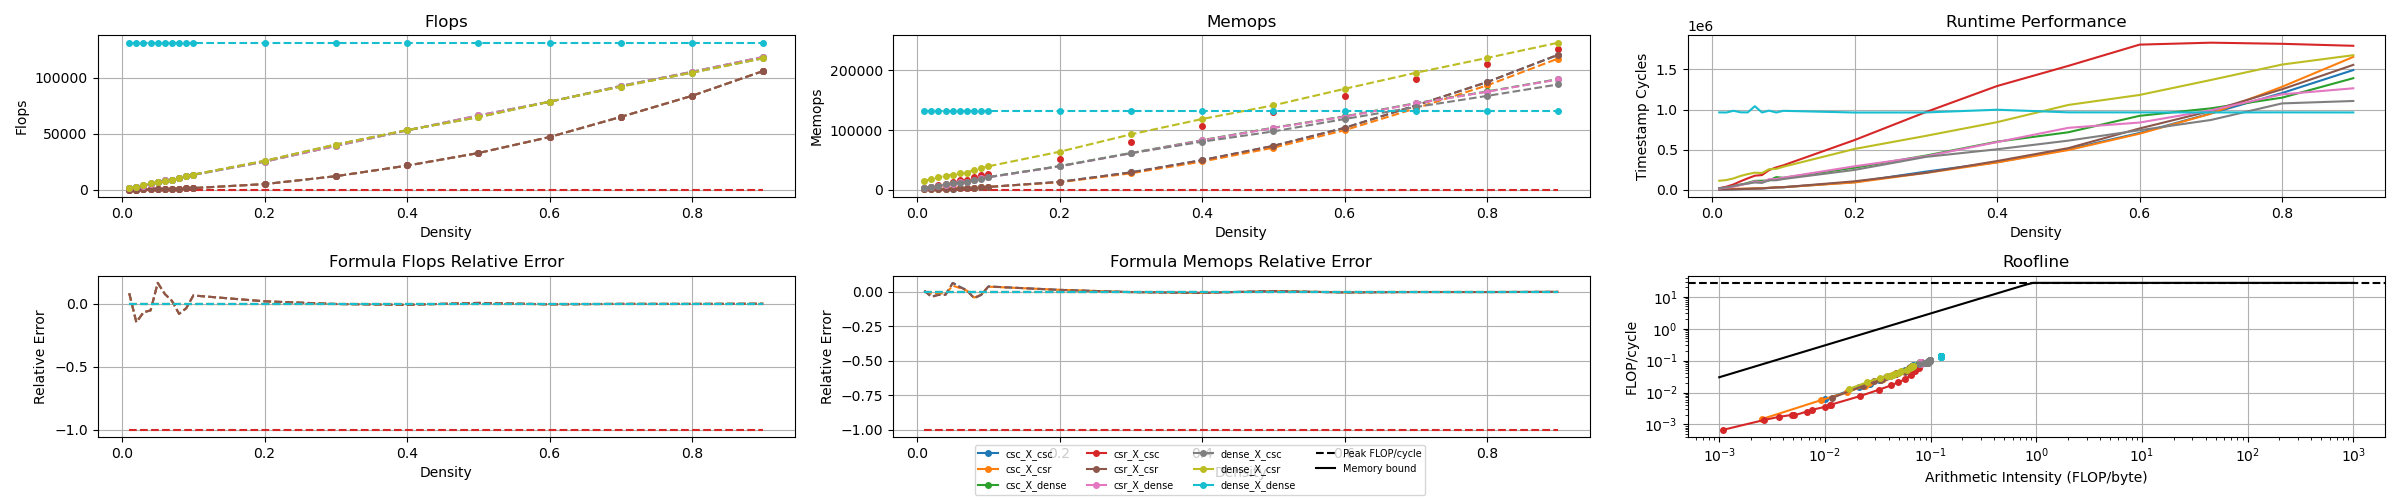
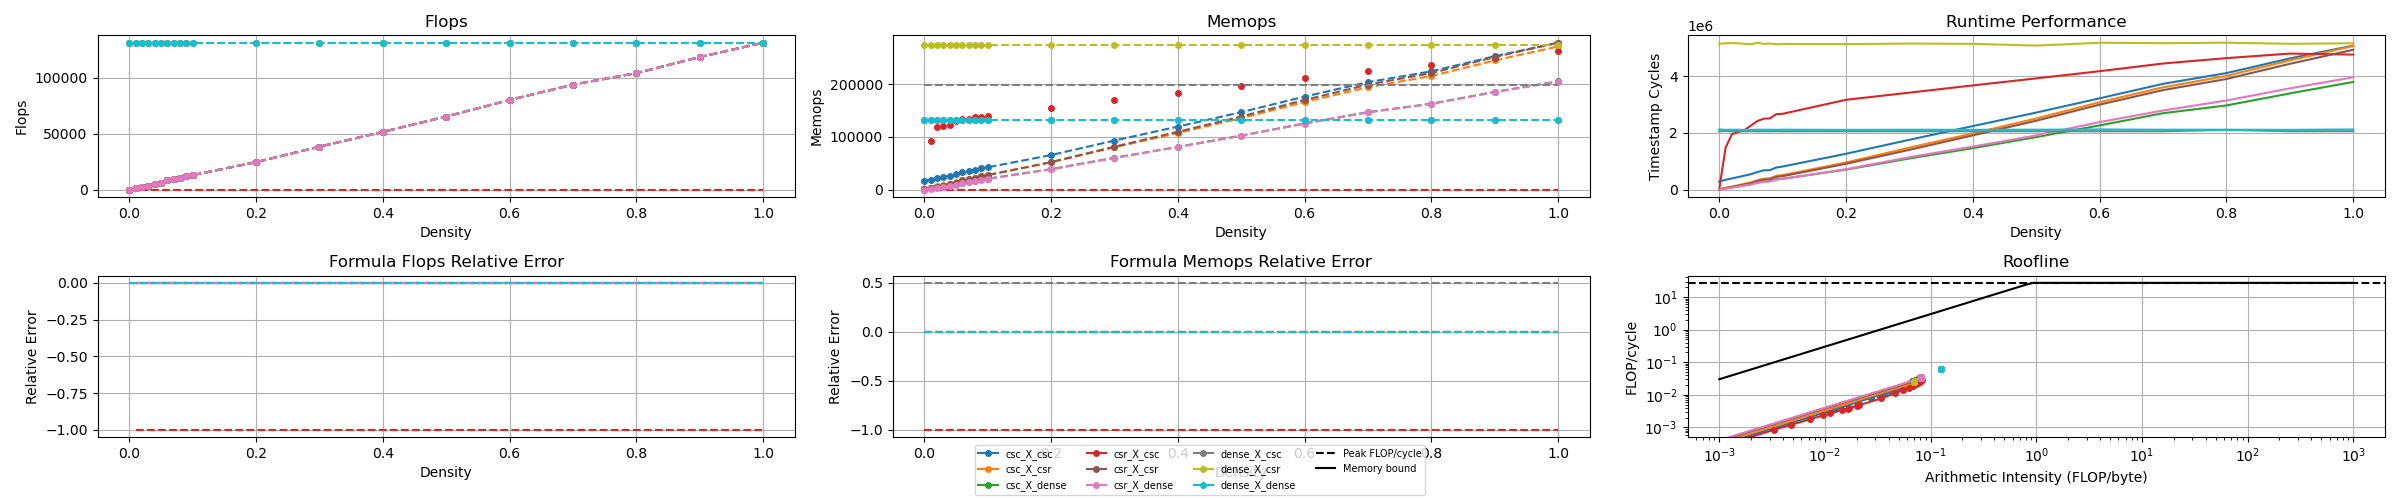
fix that

diff --git a/reptest_spmm.c b/reptest_spmm.c
@@ -402,7 +402,7 @@ void matmul_dense_csc(Repetition_Tester *tester, Operation_Parameters *params)
       usize right_col_close   = LOAD(right.col_pointers[col + 1]);
       for (usize kc = right_col_start; kc < right_col_close; kc++)
       {
-        usize k = right.row_indices[kc];
+        usize k = LOAD(right.row_indices[kc]);
         f64 right_value = LOAD(right.values[kc]);
 
         usize left_index = row * left.col_count + k;
